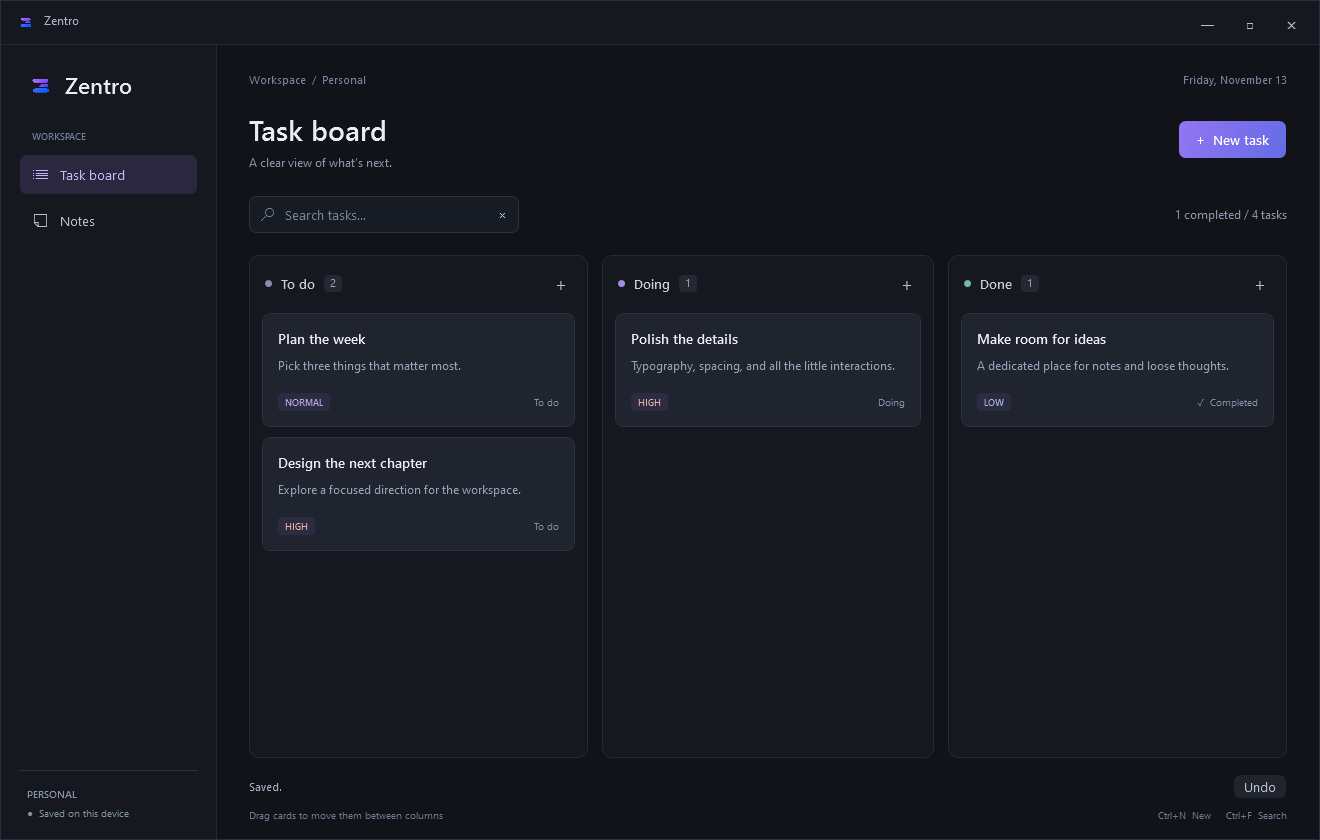
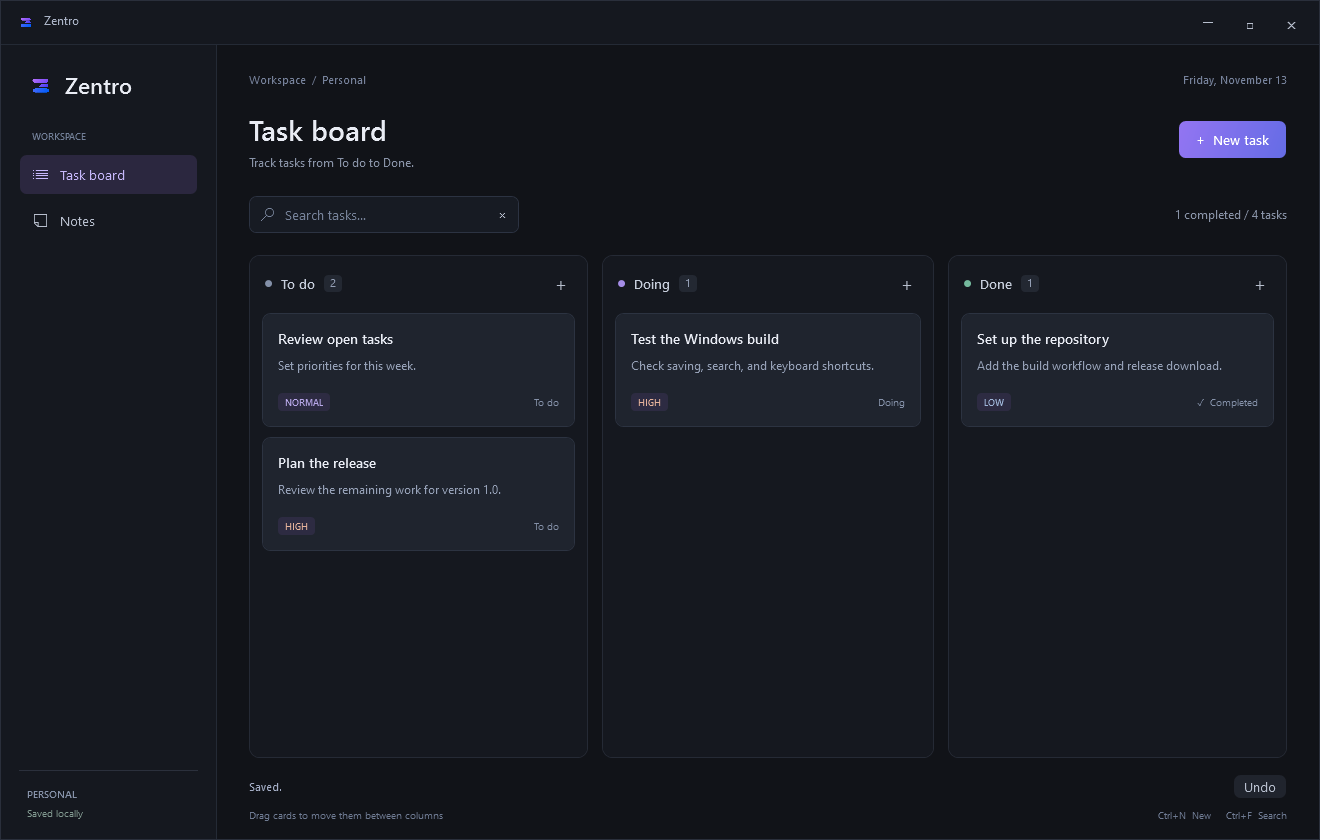
Simplify README and UI copy, share workspace options

diff --git a/src/Zentro/Views/MainWindow.xaml b/src/Zentro/Views/MainWindow.xaml
@@ -41,7 +41,7 @@
       <Border Background="#15181F" BorderBrush="#242A35" BorderThickness="0,0,0,1">
         <DockPanel Margin="16,0,6,0">
           <StackPanel DockPanel.Dock="Right" Orientation="Horizontal" WindowChrome.IsHitTestVisibleInChrome="True">
-            <Button Content="—" Style="{StaticResource CaptionButton}" ToolTip="Minimize" Click="MinimizeClick"/>
+            <Button Content="&#xE921;" FontFamily="Segoe MDL2 Assets" FontSize="10" Style="{StaticResource CaptionButton}" ToolTip="Minimize" Click="MinimizeClick"/>
             <Button Content="□" Style="{StaticResource CaptionButton}" ToolTip="Maximize or restore" Click="MaximizeClick"/>
             <Button Content="×" FontSize="19" Style="{StaticResource CaptionButton}" ToolTip="Close" Click="CloseClick"/>
           </StackPanel>

diff --git a/src/Zentro/Views/EditorWindow.xaml b/src/Zentro/Views/EditorWindow.xaml
@@ -10,7 +10,7 @@
     </Grid.RowDefinitions>
     <StackPanel>
       <DockPanel><Button Content="×" IsCancel="True" DockPanel.Dock="Right" Padding="8,2" Background="Transparent" FontSize="20" WindowChrome.IsHitTestVisibleInChrome="True"/><TextBlock x:Name="Heading" FontSize="24" FontWeight="SemiBold"/></DockPanel>
-      <TextBlock Text="Keep it simple. Make it actionable." Style="{StaticResource Muted}" Margin="0,7,0,22"/>
+      <Border Height="22"/>
     </StackPanel>
     <StackPanel Grid.Row="1">
       <Label Content="_Title" Target="{Binding ElementName=TitleBox}" Foreground="#AAB3CD" Padding="0,0,0,7"/>

diff --git a/src/Zentro/ViewModels/MainViewModel.cs b/src/Zentro/ViewModels/MainViewModel.cs
@@ -14,7 +14,7 @@ public sealed class MainViewModel : INotifyPropertyChanged
     private bool notes;
     public event PropertyChangedEventHandler? PropertyChanged;
     public bool CanWrite { get; private set; } = true;
-    public string SaveStatus { get; private set; } = "●  Saved on this device";
+    public string SaveStatus { get; private set; } = "Saved locally";
     public string Notice { get; private set; } = "";
     public bool HasNotice => Notice.Length > 0;
     public bool CanUndo => undoSnapshot != null;
@@ -22,18 +22,37 @@ public sealed class MainViewModel : INotifyPropertyChanged
     public string Query { get => query; set { query = value; Refresh(); } }
     public bool IsNotes { get => notes; set { notes = value; Refresh(); } }
     public string Heading => notes ? "Notes" : "Task board";
-    public string Subtitle => notes ? "Ideas, plans, and everything worth keeping." : "A clear view of what’s next.";
+    public string Subtitle => notes ? "Write and search notes." : "Track tasks from To do to Done.";
     public string AddLabel => notes ? "+  New note" : "+  New task";
     public string SearchHint => notes ? "Search notes…" : "Search tasks…";
-    public string Summary => query.Length > 0 ? $"{Filtered.Count()} matching {(notes ? "notes" : "tasks")}" : notes ? $"{Filtered.Count()} notes · just for you" : $"{items.Count(i => !i.Note && i.Status == "Done")} completed / {items.Count(i => !i.Note)} tasks";
+    public string Summary
+    {
+        get
+        {
+            if (!string.IsNullOrWhiteSpace(query))
+            {
+                string kind = notes ? "notes" : "tasks";
+                return $"{Filtered.Count()} matching {kind}";
+            }
+
+            if (notes)
+            {
+                return $"{Filtered.Count()} notes";
+            }
+
+            int total = items.Count(i => !i.Note);
+            int completed = items.Count(i => !i.Note && i.Status == "Done");
+            return $"{completed} completed / {total} tasks";
+        }
+    }
     public IEnumerable<WorkspaceItem> Filtered => items.Where(i => i.Note == notes && (i.Title + " " + i.Body).Contains(query.Trim(), StringComparison.OrdinalIgnoreCase)).OrderByDescending(i => i.Updated);
     public WorkspaceItem[] Todo => Filtered.Where(i => i.Status == "To do").ToArray();
     public WorkspaceItem[] Doing => Filtered.Where(i => i.Status == "Doing").ToArray();
     public WorkspaceItem[] Done => Filtered.Where(i => i.Status == "Done").ToArray();
     public WorkspaceItem[] Notes => Filtered.ToArray();
     public bool Empty => !Filtered.Any();
-    public string EmptyTitle => query.Length > 0 ? "No matches found" : notes ? "Your notes start here" : "Your board is ready";
-    public string EmptyBody => query.Length > 0 ? "Try another keyword or clear the search." : notes ? "Add a note to capture an idea." : "Add your first task to get started.";
+    public string EmptyTitle => query.Length > 0 ? "No matches found" : notes ? "No notes" : "No tasks";
+    public string EmptyBody => query.Length > 0 ? "Try another keyword or clear the search." : notes ? "Create a note." : "Create a task.";
 
     public MainViewModel(WorkspaceStore? store = null)
     {
@@ -49,7 +68,7 @@ public sealed class MainViewModel : INotifyPropertyChanged
 
     public string? Commit(WorkspaceItem item)
     {
-        if (string.IsNullOrWhiteSpace(item.Title)) return "Give this a title first.";
+        if (string.IsNullOrWhiteSpace(item.Title)) return "Enter a title.";
         var next = items.Where(i => i.Id != item.Id).Append(item).ToList();
         return Apply(next, "Saved.");
     }
@@ -61,7 +80,7 @@ public sealed class MainViewModel : INotifyPropertyChanged
         return Commit(item with { Status = status, Updated = DateTime.Now });
     }
 
-    public string? Delete(WorkspaceItem item) => Apply(items.Where(i => i.Id != item.Id).ToList(), $"{(item.Note ? "Note" : "Task")} deleted. Undo to bring it back.");
+    public string? Delete(WorkspaceItem item) => Apply(items.Where(i => i.Id != item.Id).ToList(), $"{(item.Note ? "Note" : "Task")} deleted.");
 
     public void Undo()
     {
@@ -83,7 +102,7 @@ public sealed class MainViewModel : INotifyPropertyChanged
         }
         undoSnapshot = items;
         items = next;
-        SaveStatus = "●  Saved on this device";
+        SaveStatus = "Saved locally";
         Notice = message;
         Refresh();
         return null;

diff --git a/src/Zentro/Views/EditorWindow.xaml.cs b/src/Zentro/Views/EditorWindow.xaml.cs
@@ -17,12 +17,12 @@ public partial class EditorWindow : Window
         this.workspace = workspace;
         Title = Heading.Text = $"{(existing ? "Edit" : "New")} {(item.Note ? "note" : "task")}";
         SaveButton.Content = item.Note ? "Save note" : "Save task";
-        BodyLabel.Content = item.Note ? "_Your thoughts" : "_Details";
+        BodyLabel.Content = item.Note ? "_Text" : "_Details";
         TitleBox.Text = item.Title;
         BodyBox.Text = item.Body;
-        StatusBox.ItemsSource = new[] { "To do", "Doing", "Done" };
+        StatusBox.ItemsSource = WorkspaceOptions.Statuses;
         StatusBox.SelectedItem = item.Status;
-        PriorityBox.ItemsSource = new[] { "Low", "Normal", "High" };
+        PriorityBox.ItemsSource = WorkspaceOptions.Priorities;
         PriorityBox.SelectedItem = item.Priority;
         TaskOptions.Visibility = item.Note ? Visibility.Collapsed : Visibility.Visible;
         DeleteButton.Visibility = existing ? Visibility.Visible : Visibility.Collapsed;
@@ -34,7 +34,12 @@ public partial class EditorWindow : Window
 
     private void Save()
     {
-        if (string.IsNullOrWhiteSpace(TitleBox.Text)) { ErrorText.Text = "Give this a title first."; TitleBox.Focus(); return; }
+        if (string.IsNullOrWhiteSpace(TitleBox.Text))
+        {
+            ErrorText.Text = "Enter a title.";
+            TitleBox.Focus();
+            return;
+        }
         var item = original with
         {
             Title = TitleBox.Text.Trim(),
@@ -44,14 +49,22 @@ public partial class EditorWindow : Window
             Updated = DateTime.Now
         };
         string? error = workspace.Commit(item);
-        if (error != null) { ErrorText.Text = error; return; }
+        if (error != null)
+        {
+            ErrorText.Text = error;
+            return;
+        }
         DialogResult = true;
     }
 
     private void DeleteClick(object sender, RoutedEventArgs e)
     {
         string? error = workspace.Delete(original);
-        if (error != null) { ErrorText.Text = error; return; }
+        if (error != null)
+        {
+            ErrorText.Text = error;
+            return;
+        }
         DialogResult = true;
     }
 }

diff --git a/src/Zentro/Services/WorkspaceStore.cs b/src/Zentro/Services/WorkspaceStore.cs
@@ -4,7 +4,6 @@ using Zentro.Models;
 
 namespace Zentro.Services;
 
-/// <summary>All disk access lives here. Writes replace the file only after serialization succeeds.</summary>
 public sealed class WorkspaceStore
 {
     private static readonly JsonSerializerOptions JsonOptions = new() { WriteIndented = true, IgnoreReadOnlyProperties = true };
@@ -39,8 +38,8 @@ public sealed class WorkspaceStore
         {
             if (item == null || string.IsNullOrWhiteSpace(item.Id) || !ids.Add(item.Id)
                 || string.IsNullOrWhiteSpace(item.Title) || item.Body == null
-                || !new[] { "To do", "Doing", "Done" }.Contains(item.Status)
-                || !new[] { "Low", "Normal", "High" }.Contains(item.Priority))
+                || !WorkspaceOptions.Statuses.Contains(item.Status)
+                || !WorkspaceOptions.Priorities.Contains(item.Priority))
                 throw new InvalidDataException("The workspace contains an invalid item. Your file has been left untouched.");
         }
         return items;

diff --git a/src/Zentro/Models/WorkspaceOptions.cs b/src/Zentro/Models/WorkspaceOptions.cs
@@ -1,0 +1,10 @@
+namespace Zentro.Models;
+
+public static class WorkspaceOptions
+{
+    public static IReadOnlyList<string> Statuses { get; } =
+        Array.AsReadOnly(new[] { "To do", "Doing", "Done" });
+
+    public static IReadOnlyList<string> Priorities { get; } =
+        Array.AsReadOnly(new[] { "Low", "Normal", "High" });
+}

diff --git a/README.md b/README.md
@@ -1,55 +1,32 @@
 # Zentro
 
-A calm Windows workspace for tasks and notes. Move tasks through **To do → Doing → Done**, capture ideas, and find them quickly. Dark surfaces, purple-blue accents, and an original flat purple-blue mark.
+Tasks and notes for Windows.
 
-![Zentro task board](docs/preview.png)
+[Download](https://github.com/Zorak01/Zentro/releases/latest/download/Zentro.exe) · [Releases](https://github.com/Zorak01/Zentro/releases)
 
-[Download for Windows x64](https://github.com/Zorak01/Zentro/releases/latest/download/Zentro.exe)
+![Zentro](docs/preview.png)
 
-## Use
+Drag tasks between To do, Doing, and Done. Click a card to edit it. Notes have their own view. Search covers titles and text.
 
-Run `Zentro.exe` from the Windows x64 release. No separate .NET installation, account, or network connection required. Keep one copy open at a time.
+`Ctrl+N` new · `Ctrl+F` search · `Ctrl+S` save · `Esc` cancel
 
-- Click a card or focus it and press **Enter** to edit.
-- Drag tasks between columns, or change status in the editor.
-- Choose **My notes** to capture ideas.
-- **Ctrl+N** creates; **Ctrl+F** searches; **Ctrl+S** saves in the editor; **Esc** cancels.
-- **Undo** reverses your last saved action, including deletion. **Ctrl+Z** does the same when you are outside a text field.
+Undo restores the last change, including deleted tasks and notes.
 
-Only explicit saves persist editor changes. Search is local and includes titles and details. Empty workspaces start clean, without sample tasks.
+## Development
 
-## Build
-
-Windows and the .NET 9 SDK are required for development. There are no third-party runtime dependencies.
+Requires Windows and the .NET 9 SDK.
 
 ```powershell
-./build.ps1          # run workspace checks and build
-./build.ps1 -Publish # create artifacts/Zentro/Zentro.exe
+./build.ps1
+./build.ps1 -Publish
 ```
 
-GitHub Actions runs the same checks and builds a downloadable Windows executable on each push.
+The first command runs the checks and builds the app. The second also produces `artifacts/Zentro/Zentro.exe` with the runtime included.
 
-## Layout
+App code is in `src/Zentro`. Workspace checks are in `tests/Zentro.Checks`.
 
-```text
-src/Zentro/
-  Assets/        Final PNG and multi-size Windows icon
-  Models/        Workspace record
-  Services/      JSON persistence and legacy import
-  ViewModels/    Filtering, updates, undo, save state
-  Views/         Board, reusable column, and editor
-  Styles/        Shared visual theme
-tests/Zentro.Checks/   Dependency-free workspace checks
-```
+## Data
 
-`bin`, `obj`, and `artifacts` are ignored. Generated alternatives, credentials, user data, and binaries do not belong in Git.
+Saved locally to `%LOCALAPPDATA%/Zentro/workspace.json`. The previous save is kept as `workspace.json.bak`.
 
-## Your data
-
-Everything stays in `%LOCALAPPDATA%/Zentro/workspace.json`. The last saved version is kept at `workspace.json.bak`. Writes replace the file atomically; failed saves leave the visible workspace unchanged. Invalid files are preserved and editing is disabled until you restore a valid workspace and restart.
-
-On first launch, Zentro imports the earlier organiZe workspace if present, leaving the old file untouched. Close the old app before migrating, and use Zentro going forward. Undo is in memory and resets on restart. Back up the data folder to move your workspace to another computer.
-
-## Branding
-
-The included purple-blue mark was generated for Zentro using OpenAI image generation. It uses a simple stepped motif, distinct from the Zorak website logo.
+Existing organiZe data is imported on first launch. The original file is kept.
